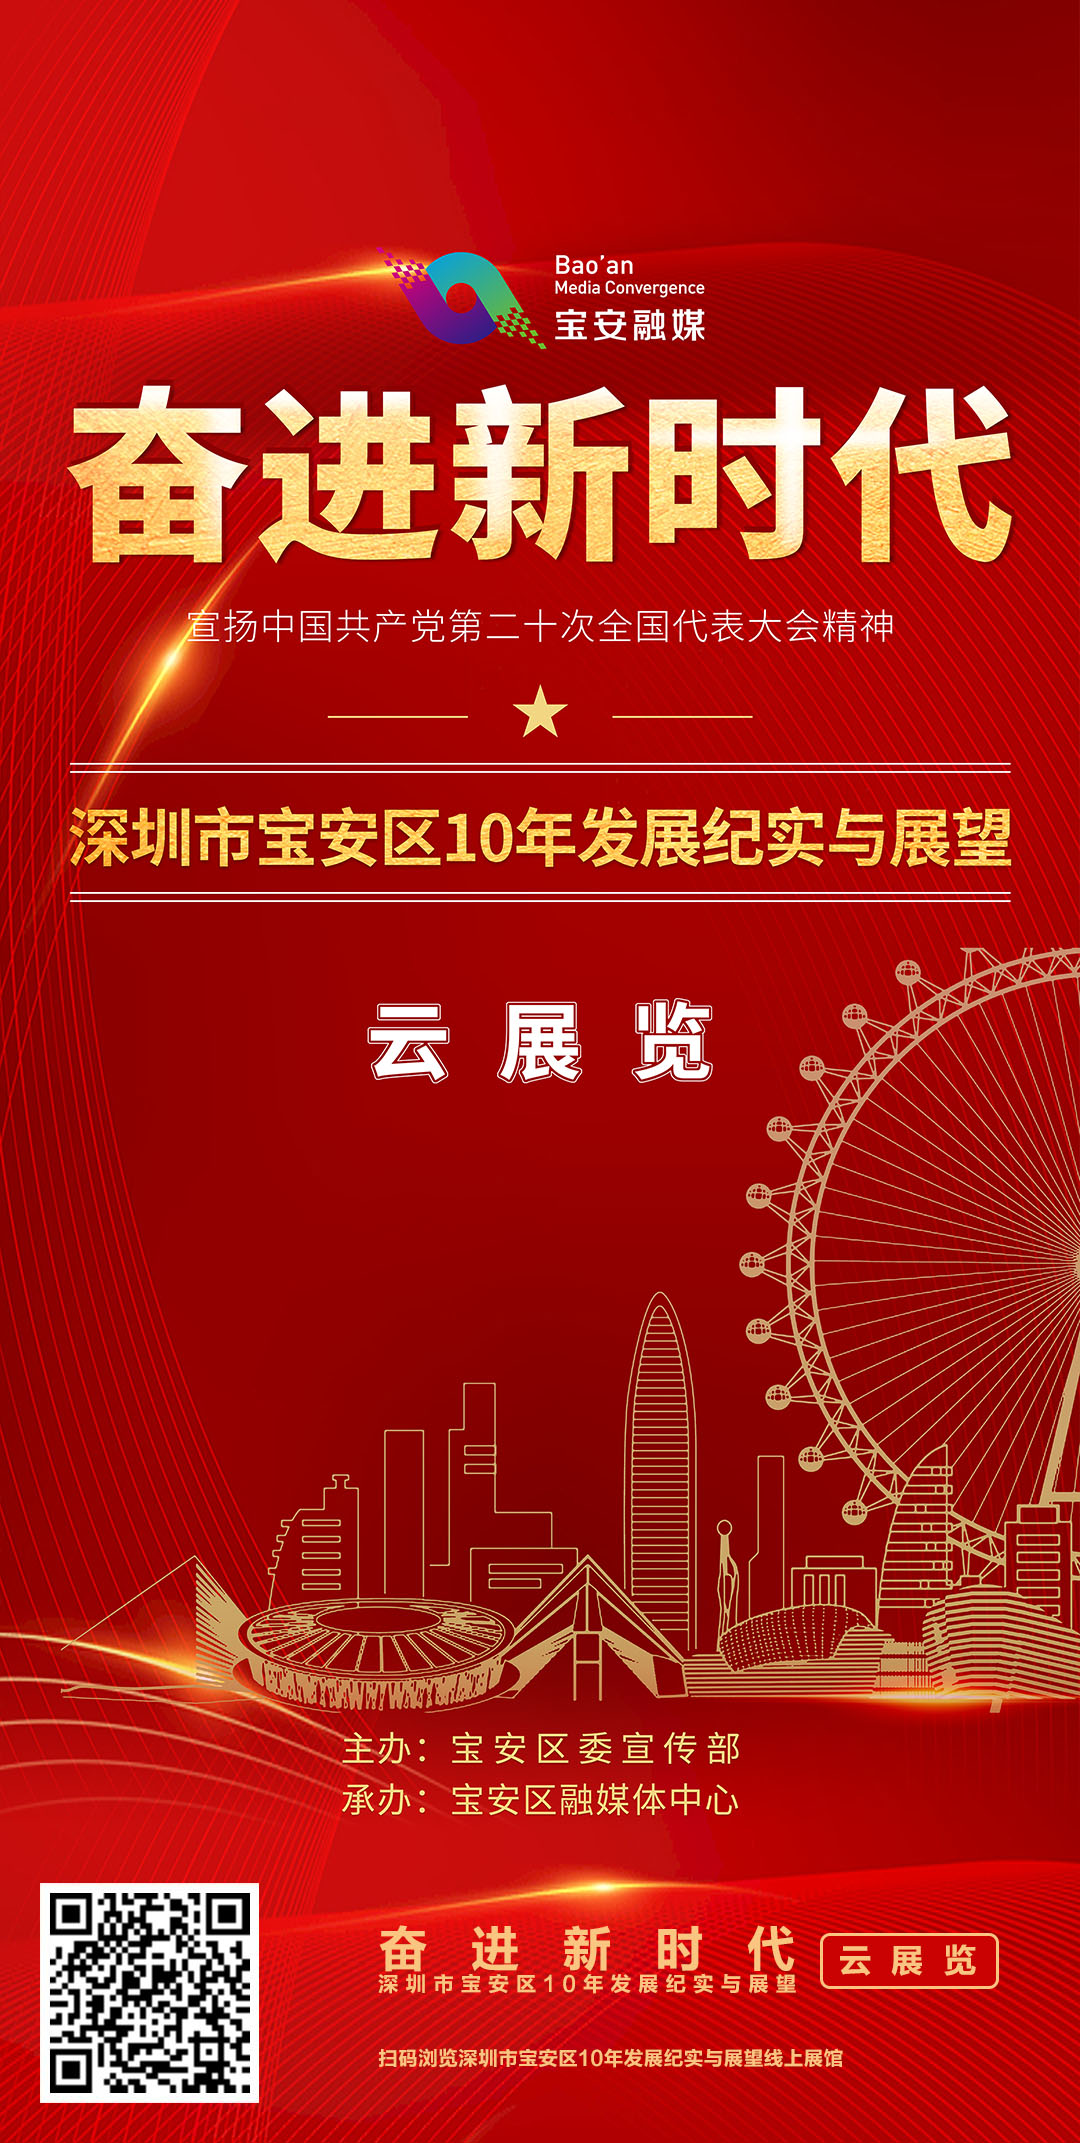
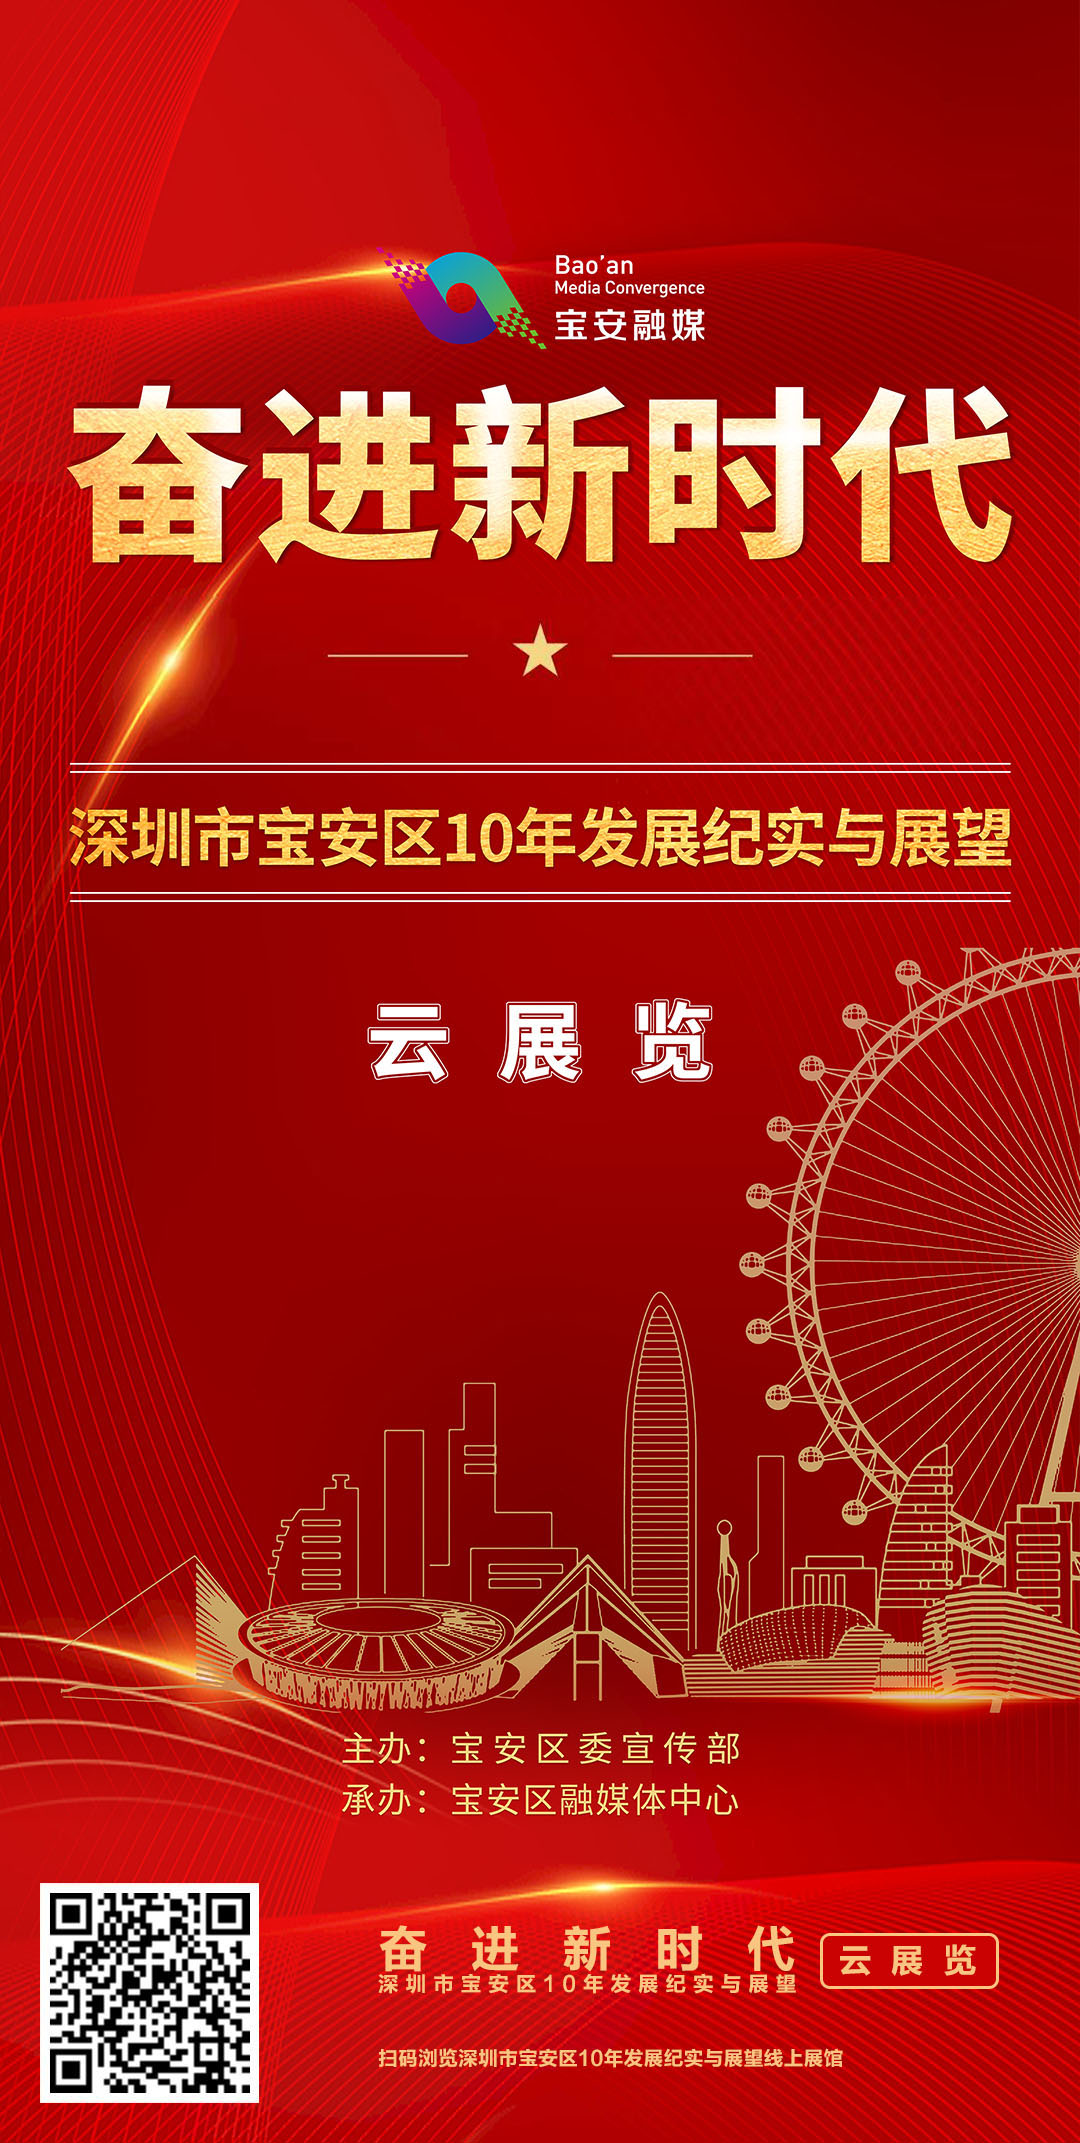
2023-5-11修改

Changed region(s): [[0.1528, 0.2772, 0.8861, 0.3388]]

diff --git a/README.md b/README.md
@@ -1,6 +1,15 @@
 # mysteryCG_BaoAnOverallView
 
 ## 修改：
+
+### 2023-5-11
+
+- 调整一张全景图、启动图片、分享图片
+
+### 2023-5-10
+
+- 调整两张全景图
+
 ### 2023-4-26
 
 - 调整场景中文本“深圳市”
